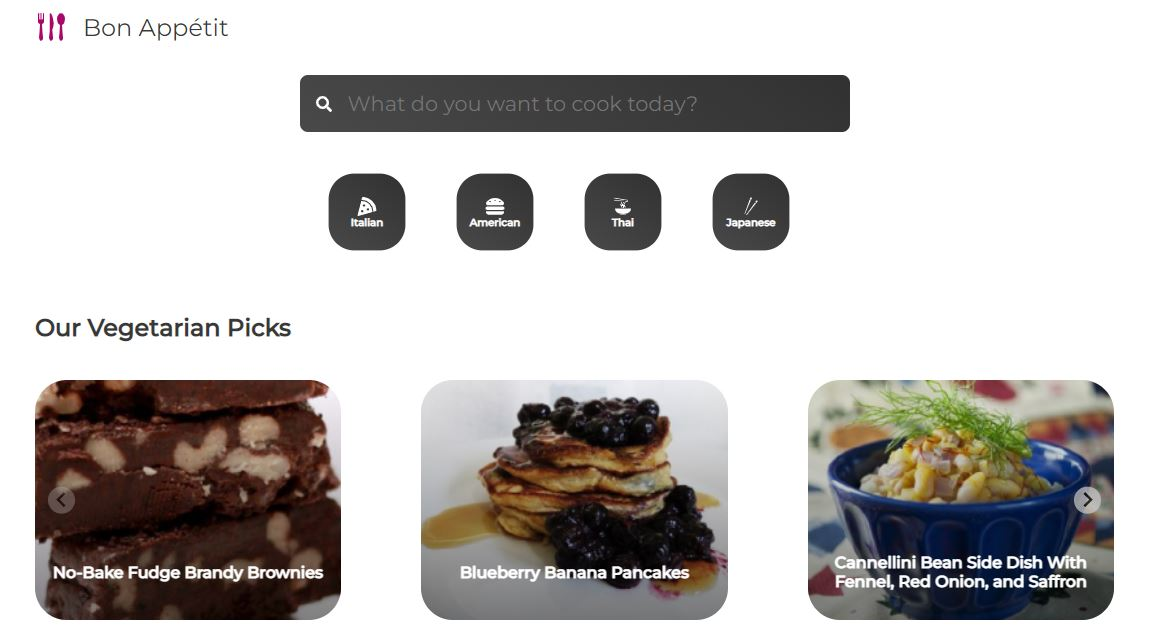
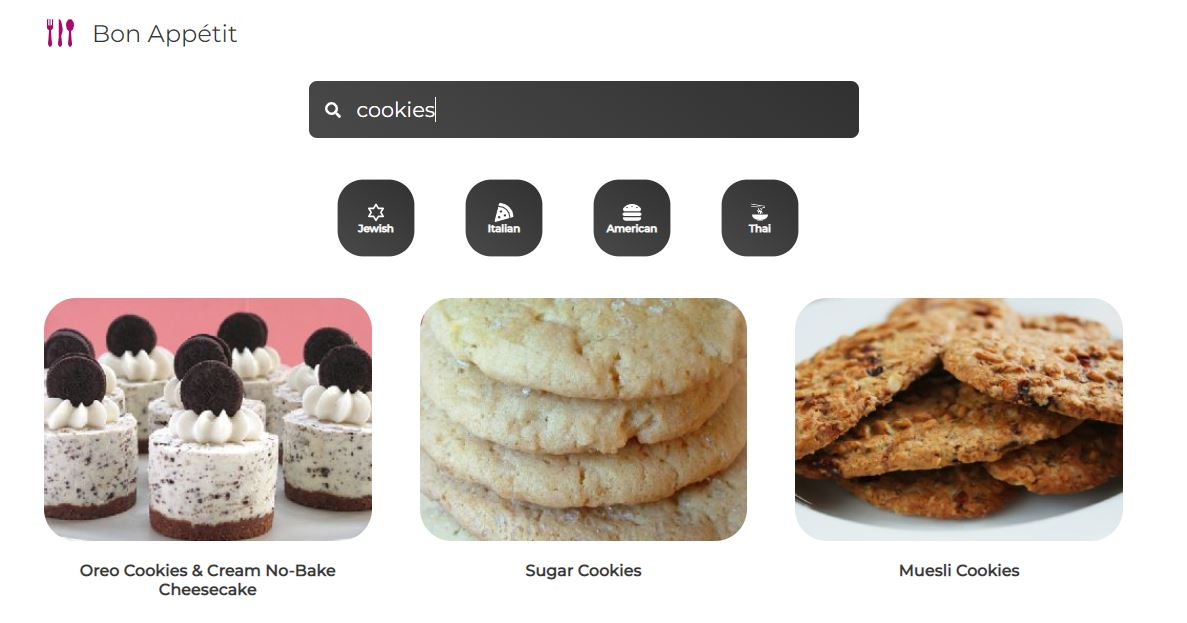
update photos and readme

diff --git a/src/components/Category.jsx b/src/components/Category.jsx
@@ -1,5 +1,6 @@
 import { FaPizzaSlice, FaHamburger } from 'react-icons/fa'
 import { GiNoodles, GiChopsticks, GiSlicedBread } from 'react-icons/gi'
+import { TbJewishStar } from 'react-icons/tb';
 import styled from 'styled-components';
 import { NavLink } from 'react-router-dom';
 
@@ -7,6 +8,10 @@ import { NavLink } from 'react-router-dom';
 function Category() {
     return (
         <List>
+            <SLink to={'/genre/Jewish'}>
+                <TbJewishStar />
+                <h4>Jewish</h4>
+            </SLink>
             <SLink to={'/genre/Italian'}>
                 <FaPizzaSlice />
                 <h4>Italian</h4>
@@ -19,10 +24,7 @@ function Category() {
                 <GiNoodles />
                 <h4>Thai</h4>
             </SLink>
-            <SLink to={'/genre/Japanese'}>
-                <GiChopsticks />
-                <h4>Japanese</h4>
-            </SLink>
+            
         </List>
     )
 }

diff --git a/README.md b/README.md
@@ -2,7 +2,7 @@
 <h1 align="center">:woman_cook: Recipes web application :woman_cook:</h1>
 
 ## :pencil2: About The Project
-This recipes application helps users to search recpies they like. By clicking on recipe you can get more inforamtion and the ingridients. The recipes are taken from Sponnacular [api](https://spoonacular.com/food-api).
+This recipes application helps users to search recipes they like. By clicking on recipe you can get more inforamtion and the ingridients. The recipes are taken from Sponnacular [api](https://spoonacular.com/food-api).
 
 
 ## :star: Built with
@@ -20,8 +20,12 @@ React.
 3. Run ```npm start```
 
 
-![Home](https://github.com/yardenavraham/Recipes-App/blob/main/public/screenShots/bon-appetit1.jpeg)</br></br>
-![Search for cookies recipe](https://github.com/yardenavraham/Recipes-App/blob/main/public/screenShots/bon-appetit2.jpeg)</br></br>
+## :camera: Screen shots
+:bulb: Search for cookies recipe</br>
+![Search for cookies recipe](https://github.com/yardenavraham/Recipes-App/blob/main/public/screenShots/bon-appetit1.jpeg)</br></br>
+:bulb: Italian recipes</br>
+![Italian recipes](https://github.com/yardenavraham/Recipes-App/blob/main/public/screenShots/bon-appetit2.jpeg)</br></br>
+:bulb: Details of recipe</br>
 ![By Genre](https://github.com/yardenavraham/Recipes-App/blob/main/public/screenShots/bon-appetit3.jpeg)</br></br>
 
 
